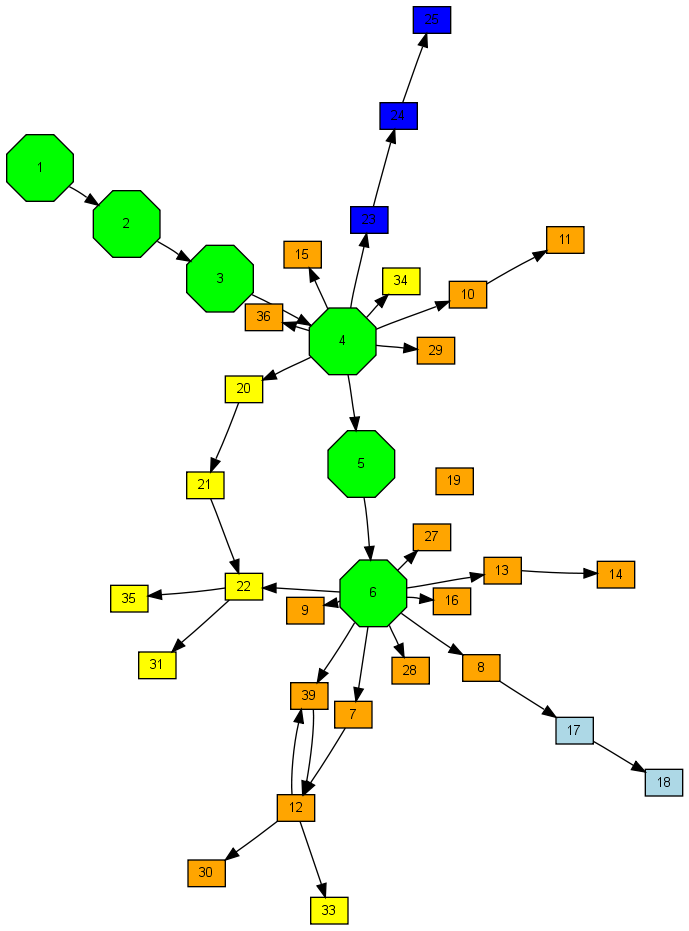
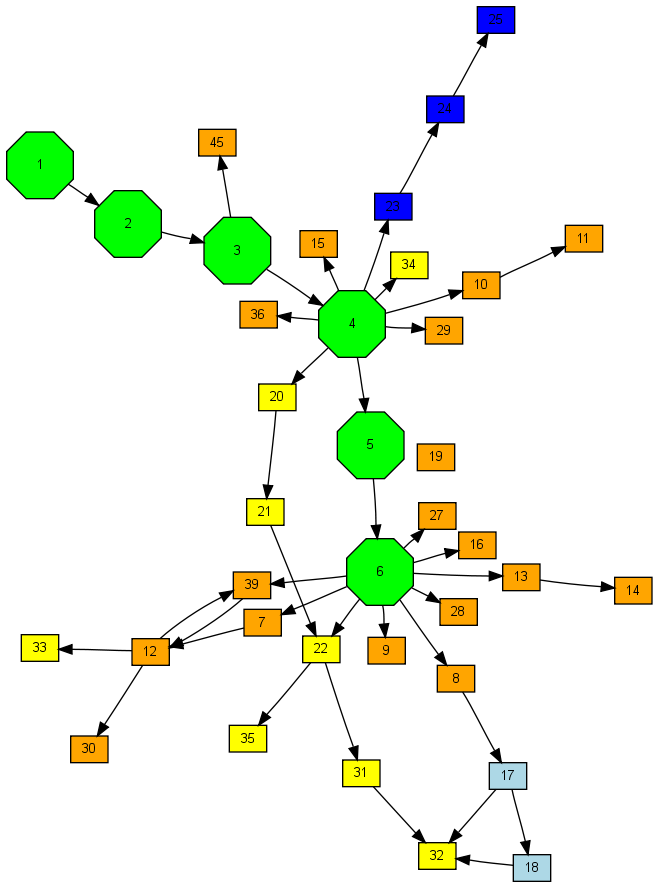
List step-45.
git-svn-id: https://svn.dealii.org/trunk@21293 0785d39b-7218-0410-832d-ea1e28bc413d

diff --git a/deal.II/doc/doxygen/tutorial/navbar.html b/deal.II/doc/doxygen/tutorial/navbar.html
@@ -66,7 +66,8 @@
 	  <a href="../../doxygen/deal.II/step_33.html" target="body">33</a>&nbsp;
 	  <a href="../../doxygen/deal.II/step_34.html" target="body">34</a>&nbsp;
 	  <a href="../../doxygen/deal.II/step_35.html" target="body">35</a><br />
-	  <a href="../../doxygen/deal.II/step_36.html" target="body">36</a>
+	  <a href="../../doxygen/deal.II/step_36.html" target="body">36</a>&nbsp;
+	  <a href="../../doxygen/deal.II/step_45.html" target="body">45</a>
 	</p>
 
 	<hr>
